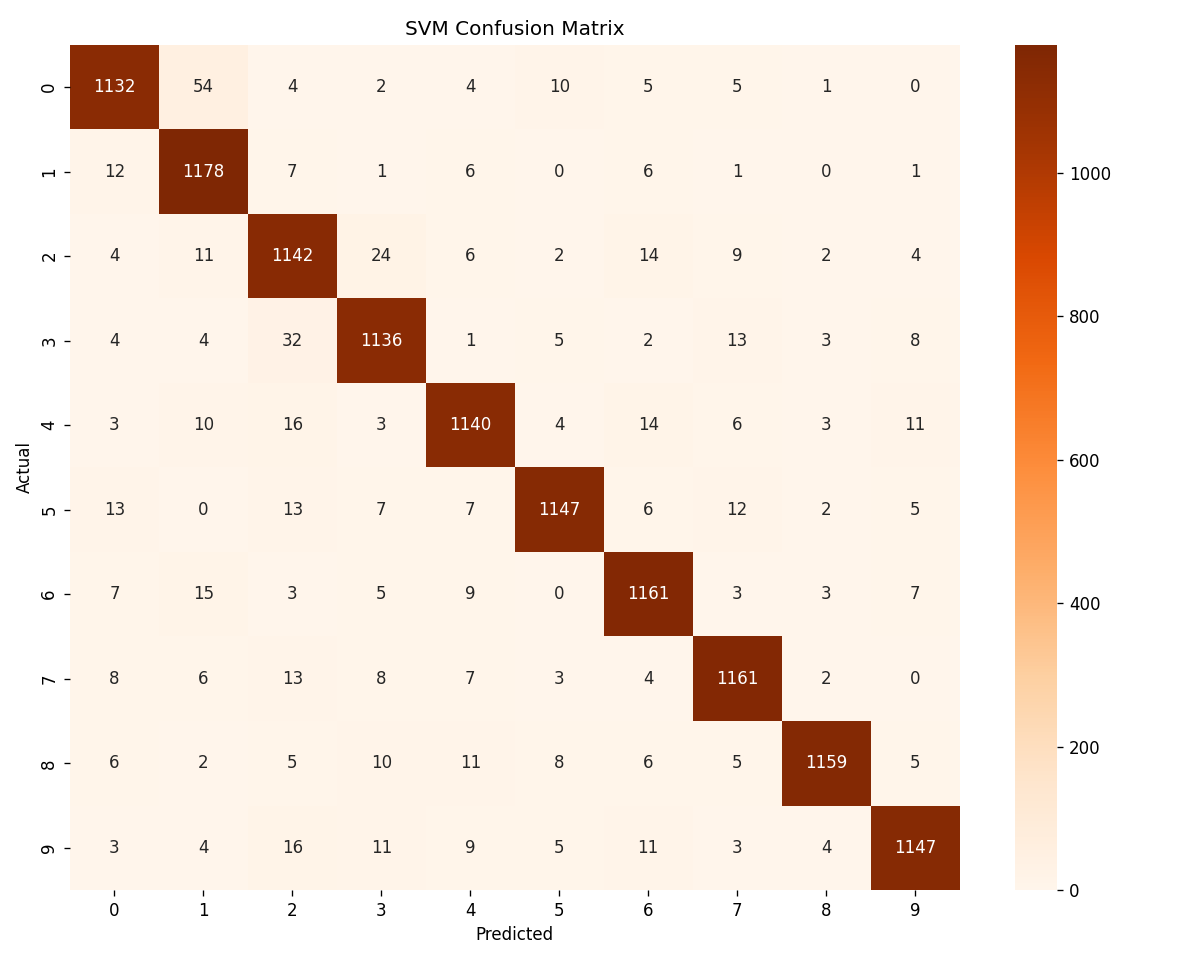
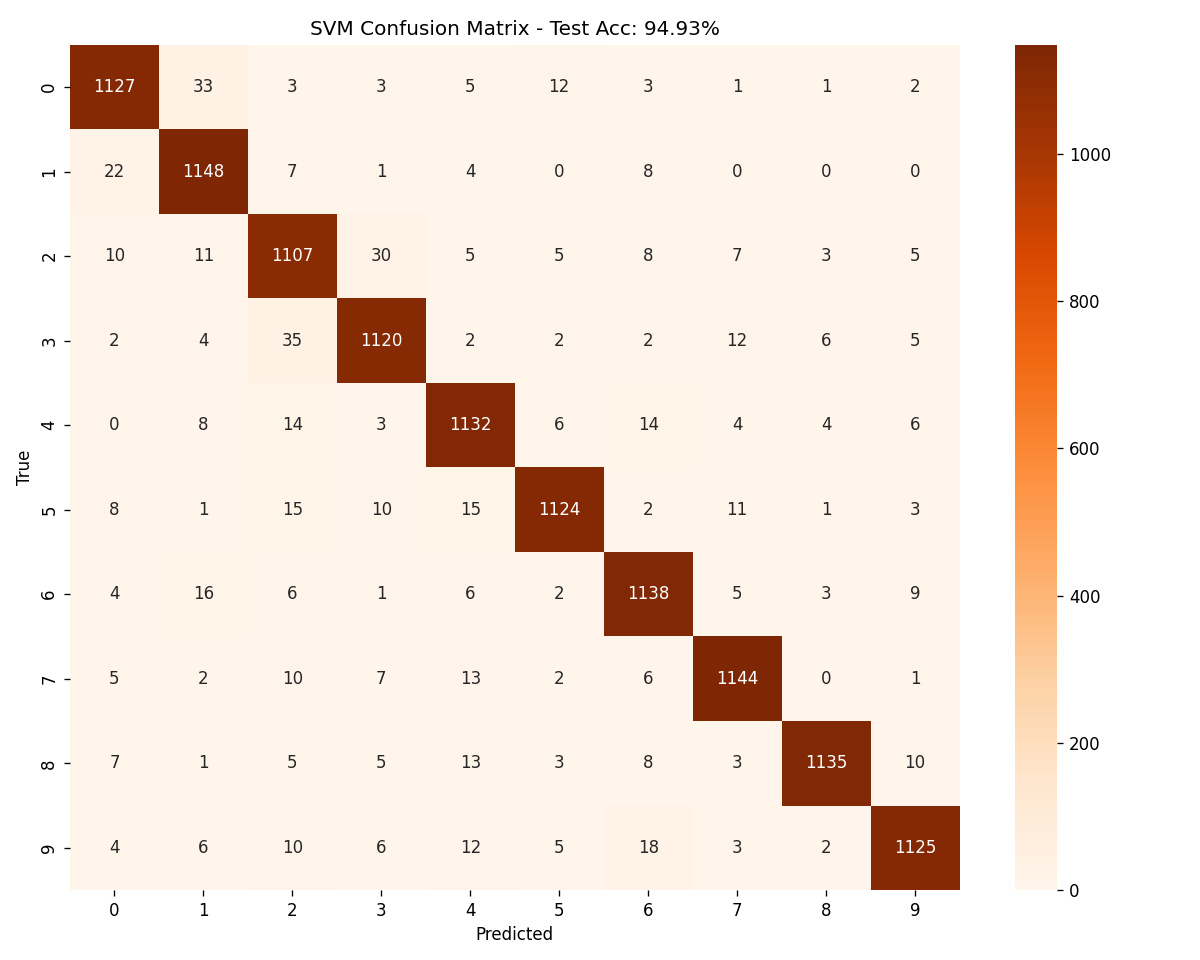
Role 3: SVM model, predictions, and comparison chart complete

diff --git a/svm_model.py b/svm_model.py
@@ -1,78 +1,65 @@
-import matplotlib
-matplotlib.use('Agg')
 import numpy as np
-import os
+from sklearn.svm import SVC
+from sklearn.metrics import classification_report, confusion_matrix, f1_score
+import matplotlib.pyplot as plt
+import seaborn as sns
+import joblib, time, os
 
 OUT_DIR = "outputs"
 SVM_DIR = "svm_results"
 os.makedirs(SVM_DIR, exist_ok=True)
 
-# Load data
+# --- 1. Load data ---
+print("Loading data...")
 X_train = np.load(f"{OUT_DIR}/X_train_svm.npy")
 X_val   = np.load(f"{OUT_DIR}/X_val_svm.npy")
 X_test  = np.load(f"{OUT_DIR}/X_test_svm.npy")
 y_train = np.load(f"{OUT_DIR}/y_train.npy")
 y_val   = np.load(f"{OUT_DIR}/y_val.npy")
 y_test  = np.load(f"{OUT_DIR}/y_test.npy")
+print(f"Train: {X_train.shape} | Val: {X_val.shape} | Test: {X_test.shape}")
 
-# Verify shapes
-print("X_train:", X_train.shape)
-print("X_val:  ", X_val.shape)
-print("X_test: ", X_test.shape)
-print("y_train:", y_train.shape)
-print("y_val:  ", y_val.shape)
-print("y_test: ", y_test.shape)
-print("Classes:", np.unique(y_train))
-print("Data loaded successfully!")
-
-from sklearn.svm import SVC
-import time
-
-print("\nTraining SVM...")
-train_start = time.time()
+# --- 2. Train SVM ---
+print("Training SVM (RBF kernel, C=10)...")
+start = time.time()
 svm = SVC(kernel="rbf", C=10, gamma="scale", random_state=42)
 svm.fit(X_train, y_train)
-train_time = time.time() - train_start
+train_time = time.time() - start
+print(f"Training done in {train_time:.1f}s")
 
-val_acc = svm.score(X_val, y_val) * 100
-print(f"Training time: {train_time:.1f} seconds")
-print(f"Val accuracy:  {val_acc:.2f}%")
+# --- 3. Validate ---
+val_acc = svm.score(X_val, y_val)
+print(f"Val accuracy: {val_acc*100:.2f}%")
 
+# --- 4. Test ---
+start = time.time()
+y_pred = svm.predict(X_test)
+inf_time = (time.time() - start) / len(X_test) * 1000
+test_acc = (y_pred == y_test).mean()
+print(f"Test accuracy: {test_acc*100:.2f}%")
+print(f"Inference: {inf_time:.4f} ms/image")
+print()
+print(classification_report(y_test, y_pred))
 
-from sklearn.metrics import classification_report, confusion_matrix
-
-print("\nEvaluating on test set...")
-inf_start = time.time()
-y_pred_svm = svm.predict(X_test)
-inf_time = (time.time() - inf_start) / len(X_test) * 1000
-
-test_acc = (y_pred_svm == y_test).mean() * 100
-print(f"Test accuracy:  {test_acc:.2f}%")
-print(f"Inference time: {inf_time:.4f} ms/image")
-print("\nClassification Report:")
-print(classification_report(y_test, y_pred_svm))
-
-import joblib
-
-print("\nSaving model and predictions...")
-joblib.dump(svm, f"{SVM_DIR}/svm_model.pkl")
-np.save(f"{OUT_DIR}/y_pred_svm.npy", y_pred_svm)
-print(f"Model saved to {SVM_DIR}/svm_model.pkl")
-print(f"Predictions saved to {OUT_DIR}/y_pred_svm.npy")
-
-
-import matplotlib.pyplot as plt
-import seaborn as sns
-
-print("\nGenerating confusion matrix...")
-cm = confusion_matrix(y_test, y_pred_svm)
+# --- 5. Confusion matrix ---
+cm = confusion_matrix(y_test, y_pred)
 plt.figure(figsize=(10, 8))
 sns.heatmap(cm, annot=True, fmt="d", cmap="Oranges",
             xticklabels=range(10), yticklabels=range(10))
-plt.title("SVM Confusion Matrix")
-plt.xlabel("Predicted")
-plt.ylabel("Actual")
+plt.title(f"SVM Confusion Matrix - Test Acc: {test_acc*100:.2f}%")
+plt.xlabel("Predicted"); plt.ylabel("True")
 plt.tight_layout()
 plt.savefig(f"{SVM_DIR}/confusion_matrix.png", dpi=120)
 plt.close()
-print(f"Confusion matrix saved to {SVM_DIR}/confusion_matrix.png")
+print("Confusion matrix saved.")
+
+# --- 6. Save model and predictions ---
+joblib.dump(svm, f"{SVM_DIR}/svm_model.pkl")
+np.save(f"{OUT_DIR}/y_pred_svm.npy", y_pred)
+print("Model and predictions saved.")
+
+# --- 7. Verify saves ---
+svm_check = joblib.load(f"{SVM_DIR}/svm_model.pkl")
+pred_check = np.load(f"{OUT_DIR}/y_pred_svm.npy")
+assert len(pred_check) == len(y_test), "Prediction count mismatch!"
+print("All saves verified OK.")

diff --git a/compare.py b/compare.py
@@ -1,0 +1,35 @@
+import numpy as np
+from sklearn.metrics import f1_score
+import matplotlib.pyplot as plt
+import os
+
+os.makedirs("comparison", exist_ok=True)
+
+y_test     = np.load("outputs/y_test.npy")
+y_pred_cnn = np.load("outputs/y_pred_cnn.npy")
+y_pred_svm = np.load("outputs/y_pred_svm.npy")
+
+f1_cnn = f1_score(y_test, y_pred_cnn, average=None)
+f1_svm = f1_score(y_test, y_pred_svm, average=None)
+
+x = range(10)
+plt.figure(figsize=(12, 5))
+plt.bar([i - 0.2 for i in x], f1_cnn, width=0.4, label="CNN", color="steelblue")
+plt.bar([i + 0.2 for i in x], f1_svm, width=0.4, label="SVM", color="darkorange")
+plt.xticks(range(10), [str(i) for i in range(10)])
+plt.ylim(0.85, 1.01)
+plt.legend()
+plt.xlabel("Digit Class")
+plt.ylabel("F1 Score")
+plt.title("F1 Score per Digit Class — CNN vs SVM")
+plt.tight_layout()
+plt.savefig("comparison/f1_per_class.png", dpi=120)
+plt.close()
+
+print("CNN vs SVM Comparison")
+print("-" * 50)
+print(f"{'Digit':<10} {'CNN F1':>10} {'SVM F1':>10}")
+for i in range(10):
+    print(f"{i:<10} {f1_cnn[i]:>10.4f} {f1_svm[i]:>10.4f}")
+print(f"\n{'Macro avg':<10} {f1_cnn.mean():>10.4f} {f1_svm.mean():>10.4f}")
+print("\nChart saved to comparison/f1_per_class.png")